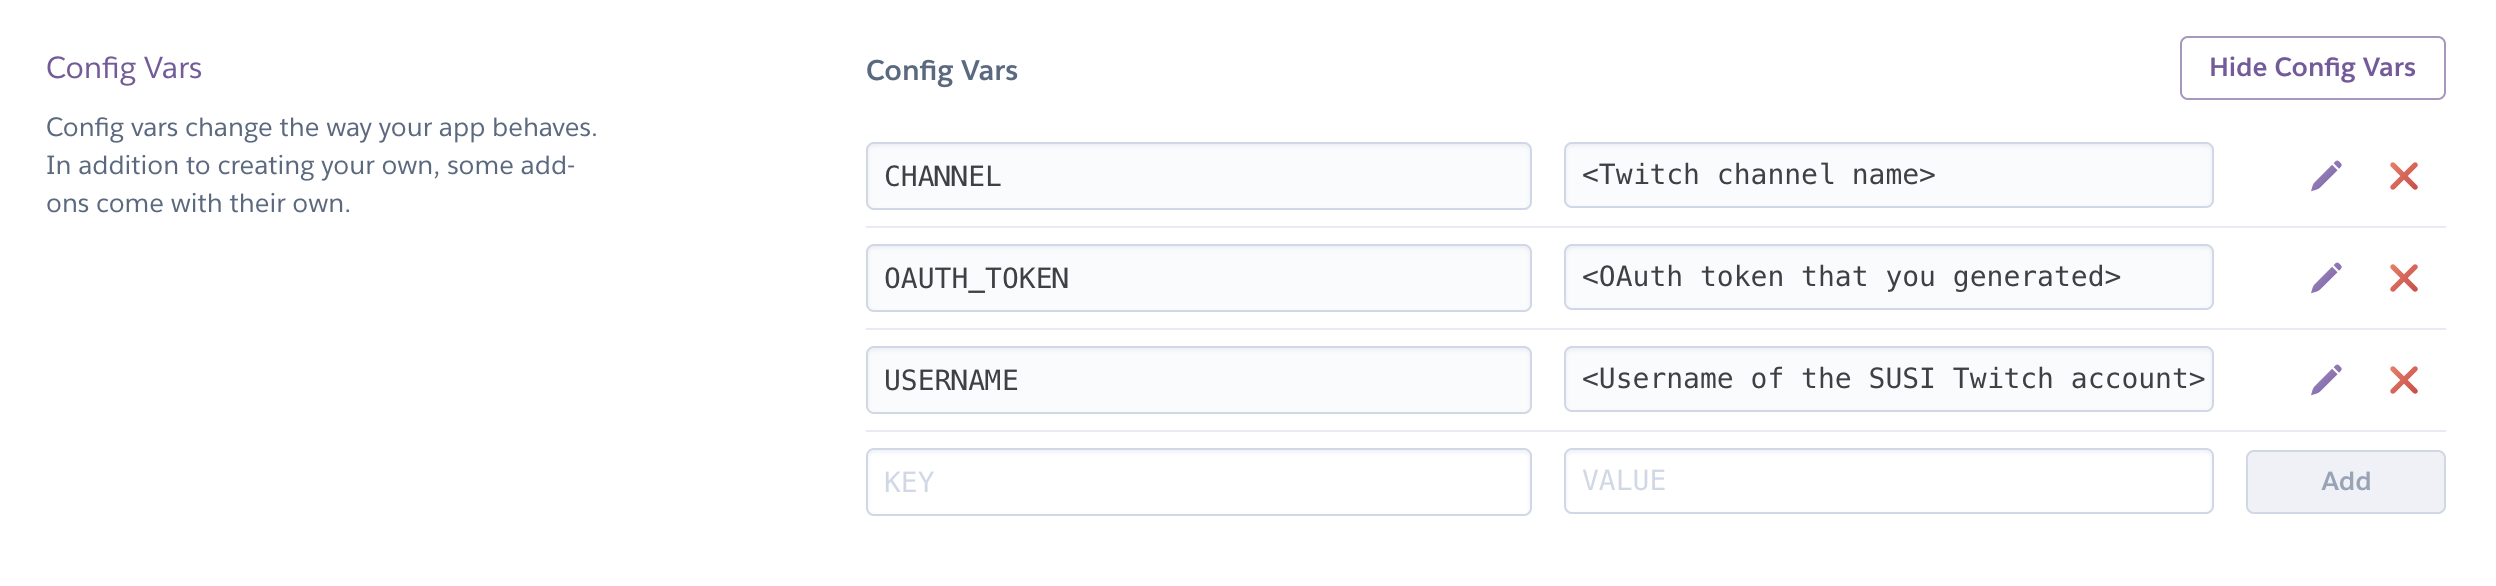
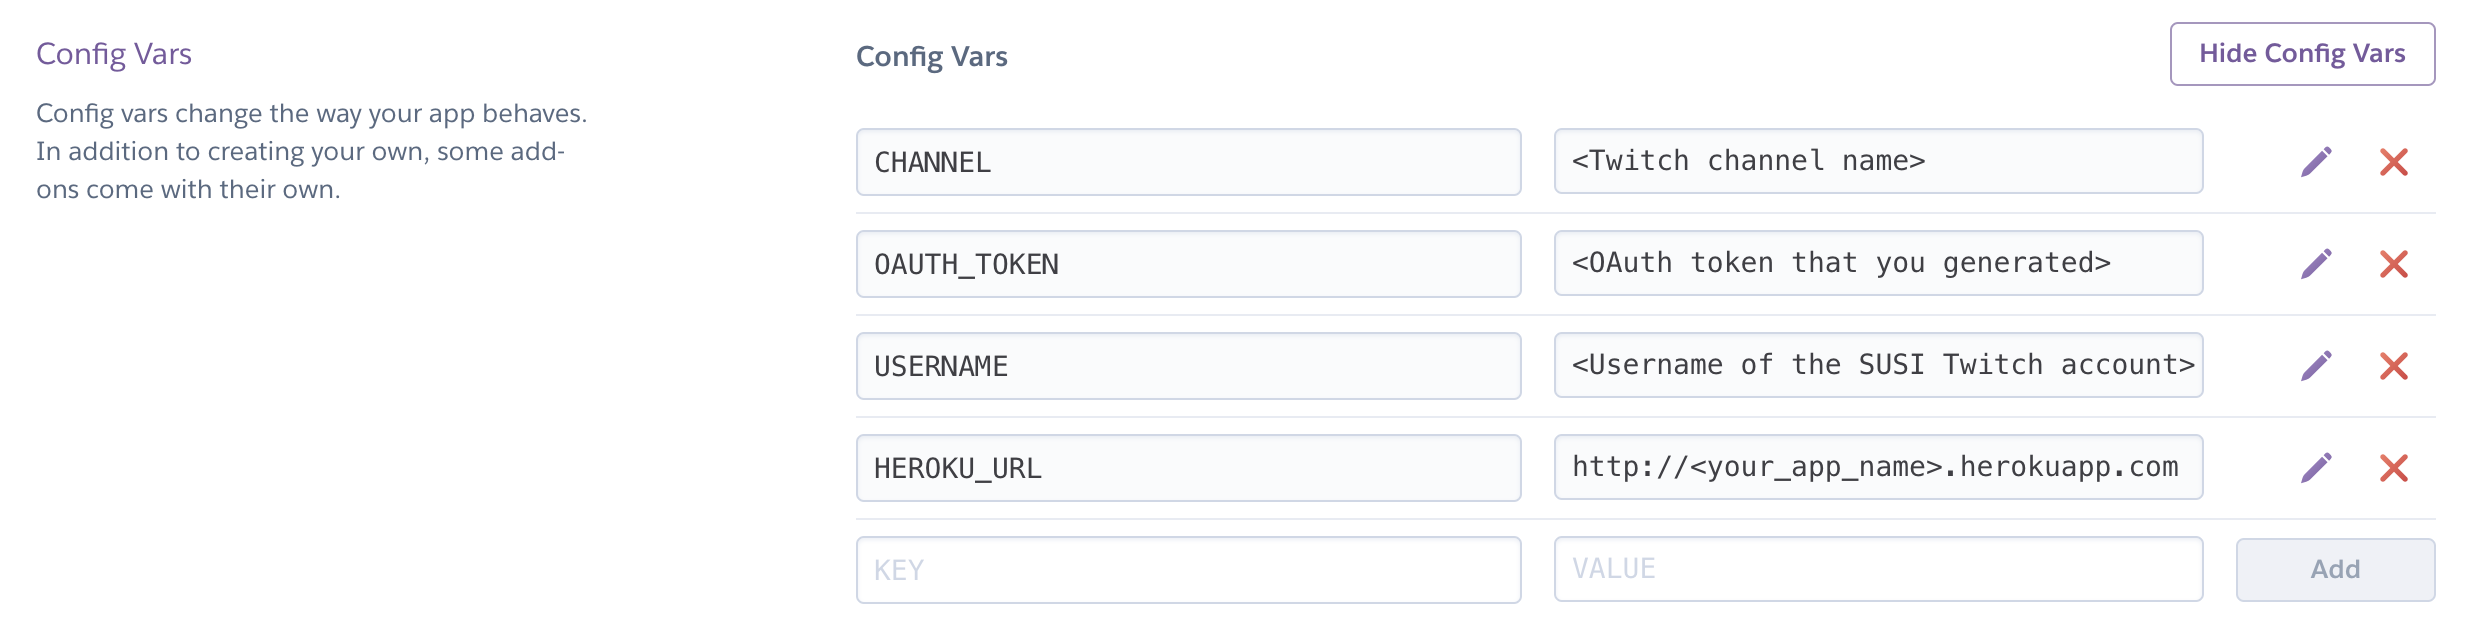
Prevent heroku app from going to Idle state

diff --git a/index.js b/index.js
@@ -1,9 +1,14 @@
 var tmi = require('tmi.js');
 var request = require('request');
 const express = require('express');
+var http = require('http');
 
 const app = express();
 const userChannel = process.env.CHANNEL;
+
+setInterval(function() {
+		http.get(process.env.HEROKU_URL);
+	}, 600000); //every 10 minutes
 
 var ans;
 

diff --git a/docs/installation/installation_heroku.md b/docs/installation/installation_heroku.md
@@ -13,10 +13,11 @@
 4. Go to [Heroku](https://www.heroku.com/). Create an account or log in if you already have an account.
 5. Now, you will be talking to SUSI AI on a Twitch channel. So for that you need an account different than the one you created for SUSI just now. Create this account(if you don't have one already) and save the channel name (username) of this account as well for later use.
 6. Create a new app on [Heroku dashboard](https://dashboard.heroku.com/).
-7. Go to settings and add these config vars "CHANNEL", "OAUTH_TOKEN" and "USERNAME".
+7. Go to settings and add these config vars "CHANNEL", "OAUTH_TOKEN", "USERNAME" and "HEROKU_URL".
 * The key of "CHANNEL" is the channel name on which you'd like to talk to SUSI.
 * The key of "OAUTH_TOKEN" is the OAuth key that you generated earlier. (Remember to include "oauth:" in the key)
-* The key of "USERNAME" is the username of the Twitch account you created for SUSI AI.  
+* The key of "USERNAME" is the username of the Twitch account you created for SUSI AI.
+* The key of "HEROKU_URL" is "http://<your_app_name>.herokuapp.com" (write 'http' and not 'https').  
 
 	<img src = "../images/configvars.jpg" alt="Config Vars">
 8. Now go to Deploy and connect with GitHub in Deployment method.
